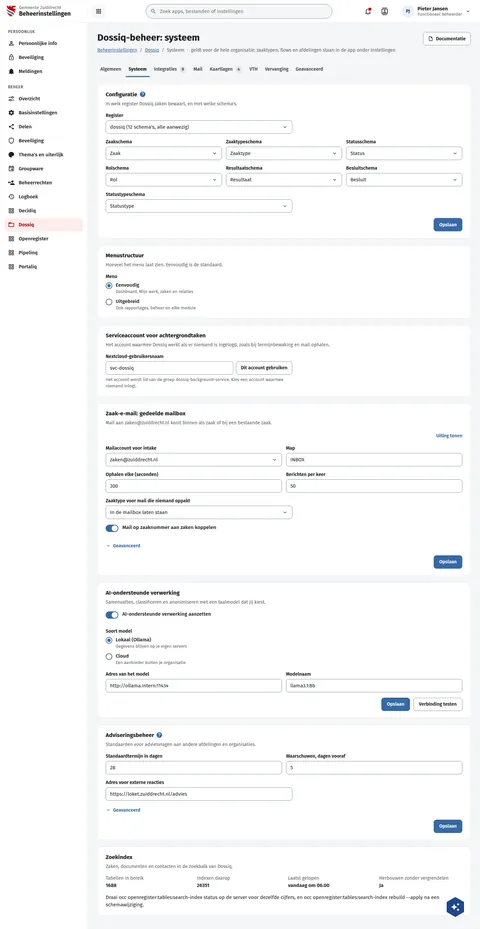
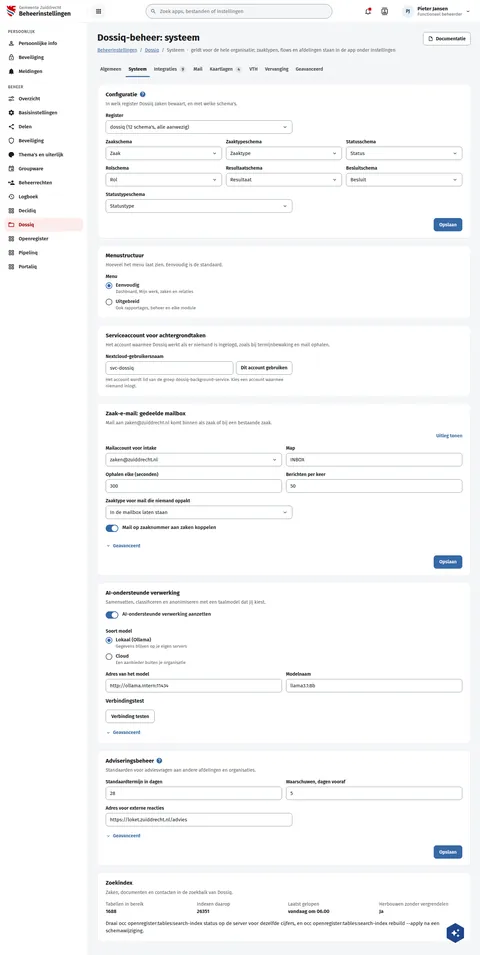
fix(screens): DqBeheerinstellingen AI card saves as you go, with its connection test as a row of its own, as live
NcBeheerInstellingen gains a heading row.

Assisted-by: ClaudeCode:claude-opus-5-5

diff --git a/preview/screens/boards/DqBeheerinstellingen.html b/preview/screens/boards/DqBeheerinstellingen.html
@@ -109,7 +109,9 @@ a{color:var(--sc-primary, #3669a5)}a:hover{color:var(--sc-primary-deep, #234a78)
                 
                 
                 
+                
               
+                
                 
                 
                 
@@ -130,6 +132,7 @@ a{color:var(--sc-primary, #3669a5)}a:hover{color:var(--sc-primary-deep, #234a78)
                 
                 
               
+                
                 
                 
                 
@@ -169,7 +172,9 @@ a{color:var(--sc-primary, #3669a5)}a:hover{color:var(--sc-primary-deep, #234a78)
                 
                 
                 
+                
               
+                
                 
                 
                 
@@ -205,6 +210,7 @@ a{color:var(--sc-primary, #3669a5)}a:hover{color:var(--sc-primary-deep, #234a78)
                 
                 
                 
+                
                   <fieldset style="margin: 0; padding: 0; border: 0; display: flex; flex-direction: column; gap: 10px"><legend style="padding: 0 0 8px; font-size: 14px; font-weight: 600">Menu</legend><label style="display: flex; gap: 10px; align-items: flex-start"><span aria-hidden="true" style="flex: none; display: inline-flex; align-items: center; justify-content: center; width: 20px; height: 20px; box-sizing: border-box; border-radius: 10px; margin-top: 1px; border: 2px solid var(--sc-primary, #3669a5)"><span style="width: 10px; height: 10px; border-radius: 5px; background: var(--sc-primary, #3669a5)"></span></span><input type="radio" name="nbi-r1" checked style="position: absolute; opacity: 0; width: 1px; height: 1px"><span style="display: flex; flex-direction: column; gap: 2px"><span style="font-size: 15px; font-weight: 500">Eenvoudig</span><span style="font-size: 13px; color: var(--sc-work-muted, #5e6168); line-height: 1.45">Dashboard, Mijn werk, zaken en relaties</span></span></label><label style="display: flex; gap: 10px; align-items: flex-start"><span aria-hidden="true" style="flex: none; display: inline-flex; align-items: center; justify-content: center; width: 20px; height: 20px; box-sizing: border-box; border-radius: 10px; margin-top: 1px; border: 2px solid var(--sc-work-muted, #5e6168)"></span><input type="radio" name="nbi-r1" style="position: absolute; opacity: 0; width: 1px; height: 1px"><span style="display: flex; flex-direction: column; gap: 2px"><span style="font-size: 15px; font-weight: 500">Uitgebreid</span><span style="font-size: 13px; color: var(--sc-work-muted, #5e6168); line-height: 1.45">Ook rapportages, beheer en elke module</span></span></label></fieldset>
                 
                 
@@ -226,6 +232,7 @@ a{color:var(--sc-primary, #3669a5)}a:hover{color:var(--sc-primary-deep, #234a78)
             <p style="margin: 0; font-size: 14px; color: var(--sc-work-muted, #5e6168); line-height: 1.5">Het account waarmee Dossiq werkt als er niemand is ingelogd, zoals bij termijnbewaking en mail ophalen.</p>
             <div style="display: flex; flex-direction: column; gap: 16px; margin-top: 10px">
               
+                
                 
                 
                 
@@ -268,12 +275,14 @@ a{color:var(--sc-primary, #3669a5)}a:hover{color:var(--sc-primary-deep, #234a78)
                 
                 
                 
+                
                   <div style="display: flex; justify-content: flex-end"><button type="button" aria-expanded="false" style="border: 0; background: transparent; padding: 4px 0; font: 600 14px var(--sc-font, 'Fira Sans'), sans-serif; color: var(--sc-primary, #3669a5)">Uitleg tonen</button></div>
                 
                 
                 
                 
               
+                
                 
                 
                 
@@ -294,6 +303,7 @@ a{color:var(--sc-primary, #3669a5)}a:hover{color:var(--sc-primary-deep, #234a78)
                 
                 
               
+                
                 
                 
                 
@@ -333,6 +343,7 @@ a{color:var(--sc-primary, #3669a5)}a:hover{color:var(--sc-primary-deep, #234a78)
                 
                 
                 
+                
               
                 
                   <label style="min-height: 36px; display: flex; gap: 12px; align-items: flex-start"><input type="checkbox" role="switch" checked style="position: absolute; opacity: 0; width: 1px; height: 1px"><span aria-hidden="true" style="flex: none; display: inline-flex; align-items: center; width: 38px; height: 22px; border-radius: 11px; margin-top: 1px; background: var(--sc-primary, #3669a5); justify-content: flex-end"><span style="width: 18px; height: 18px; border-radius: 9px; background: #ffffff; margin: 0 2px"></span></span><span style="display: flex; flex-direction: column; gap: 2px"><span style="font-size: 15px; font-weight: 500">Mail op zaaknummer aan zaken koppelen</span></span></label>
@@ -353,7 +364,9 @@ a{color:var(--sc-primary, #3669a5)}a:hover{color:var(--sc-primary-deep, #234a78)
                 
                 
                 
+                
               
+                
                 
                 
                 
@@ -374,6 +387,7 @@ a{color:var(--sc-primary, #3669a5)}a:hover{color:var(--sc-primary-deep, #234a78)
                 
                 
               
+                
                 
                 
                 
@@ -421,7 +435,9 @@ a{color:var(--sc-primary, #3669a5)}a:hover{color:var(--sc-primary-deep, #234a78)
                 
                 
                 
+                
               
+                
                 
                 
                 
@@ -448,6 +464,7 @@ a{color:var(--sc-primary, #3669a5)}a:hover{color:var(--sc-primary-deep, #234a78)
                 
                 
                 
+                
                   <div style="display: flex; flex-wrap: wrap; gap: 12px"><div style="flex: 1 1 180px; min-width: 0; display: flex; flex-direction: column; gap: 6px"><span style="font-size: 14px; font-weight: 600">Adres van het model</span><div style="display: flex; align-items: center; justify-content: space-between; height: 40px; box-sizing: border-box; padding: 0 12px; border: 1px solid var(--sc-work-field, #828a95); border-radius: 8px; background: #ffffff; font-size: 15px"><span style="overflow: hidden; text-overflow: ellipsis; white-space: nowrap">http://ollama.intern:11434</span></div></div><div style="flex: 1 1 180px; min-width: 0; display: flex; flex-direction: column; gap: 6px"><span style="font-size: 14px; font-weight: 600">Modelnaam</span><div style="display: flex; align-items: center; justify-content: space-between; height: 40px; box-sizing: border-box; padding: 0 12px; border: 1px solid var(--sc-work-field, #828a95); border-radius: 8px; background: #ffffff; font-size: 15px"><span style="overflow: hidden; text-overflow: ellipsis; white-space: nowrap">llama3.1:8b</span></div></div></div>
                 
                 
@@ -466,6 +483,7 @@ a{color:var(--sc-primary, #3669a5)}a:hover{color:var(--sc-primary-deep, #234a78)
                 
                 
                 
+                  <h3 style="margin: 0; font-size: 16px; font-weight: 600; line-height: 1.3">Verbindingstest</h3>
                 
                 
                 
@@ -479,7 +497,49 @@ a{color:var(--sc-primary, #3669a5)}a:hover{color:var(--sc-primary-deep, #234a78)
                 
                 
                 
-                  <div style="display: flex; flex-wrap: wrap; gap: 10px; justify-content: flex-end"><button type="button" style="display: inline-flex; align-items: center; height: 40px; box-sizing: border-box; padding: 0 16px; border-radius: 8px; font: 600 14px var(--sc-font, 'Fira Sans'), sans-serif; white-space: nowrap; border: 1px solid var(--sc-primary, #3669a5); background: var(--sc-primary, #3669a5); color: #ffffff">Opslaan</button><button type="button" style="display: inline-flex; align-items: center; height: 40px; box-sizing: border-box; padding: 0 16px; border-radius: 8px; font: 600 14px var(--sc-font, 'Fira Sans'), sans-serif; white-space: nowrap; border: 1px solid var(--sc-work-field, #828a95); background: #ffffff; color: var(--sc-work-ink, #1b1c1d)">Verbinding testen</button></div>
+                
+                
+              
+                
+                
+                
+                
+                
+                
+                
+                
+                
+                
+                
+                
+                
+                
+                
+                
+                
+                
+                  <div style="display: flex; flex-wrap: wrap; gap: 10px; "><button type="button" style="display: inline-flex; align-items: center; height: 40px; box-sizing: border-box; padding: 0 16px; border-radius: 8px; font: 600 14px var(--sc-font, 'Fira Sans'), sans-serif; white-space: nowrap; border: 1px solid var(--sc-work-field, #828a95); background: #ffffff; color: var(--sc-work-ink, #1b1c1d)">Verbinding testen</button></div>
+                
+              
+                
+                
+                
+                
+                
+                
+                
+                
+                
+                
+                
+                
+                
+                
+                
+                
+                  <button type="button" aria-expanded="false" style="align-self: flex-start; display: inline-flex; align-items: center; gap: 6px; border: 0; background: transparent; padding: 4px 0; font: 600 14px var(--sc-font, 'Fira Sans'), sans-serif; color: var(--sc-primary, #3669a5)"><svg width="16" height="16" viewbox="0 0 24 24" fill="#3669a5" aria-hidden="true" style="fill:var(--sc-primary, #3669a5)"><path d="M7.41,8.58L12,13.17L16.59,8.58L18,10L12,16L6,10L7.41,8.58Z"></path></svg>Geavanceerd</button>
+                
+                
                 
               
             </div>
@@ -490,6 +550,7 @@ a{color:var(--sc-primary, #3669a5)}a:hover{color:var(--sc-primary-deep, #234a78)
             <p style="margin: 0; font-size: 14px; color: var(--sc-work-muted, #5e6168); line-height: 1.5">Standaarden voor adviesvragen aan andere afdelingen en organisaties.</p>
             <div style="display: flex; flex-direction: column; gap: 16px; margin-top: 10px">
               
+                
                 
                 
                 
@@ -510,6 +571,7 @@ a{color:var(--sc-primary, #3669a5)}a:hover{color:var(--sc-primary-deep, #234a78)
                 
                 
               
+                
                 
                 
                 
@@ -545,11 +607,13 @@ a{color:var(--sc-primary, #3669a5)}a:hover{color:var(--sc-primary-deep, #234a78)
                 
                 
                 
+                
                   <button type="button" aria-expanded="false" style="align-self: flex-start; display: inline-flex; align-items: center; gap: 6px; border: 0; background: transparent; padding: 4px 0; font: 600 14px var(--sc-font, 'Fira Sans'), sans-serif; color: var(--sc-primary, #3669a5)"><svg width="16" height="16" viewbox="0 0 24 24" fill="#3669a5" aria-hidden="true" style="fill:var(--sc-primary, #3669a5)"><path d="M7.41,8.58L12,13.17L16.59,8.58L18,10L12,16L6,10L7.41,8.58Z"></path></svg>Geavanceerd</button>
                 
                 
                 
               
+                
                 
                 
                 
@@ -590,6 +654,7 @@ a{color:var(--sc-primary, #3669a5)}a:hover{color:var(--sc-primary-deep, #234a78)
                 
                 
                 
+                
                   <dl style="margin: 0; display: grid; grid-template-columns: repeat(4, minmax(0, 1fr)); gap: 6px 24px; font-size: 14px"><div style="display: flex; flex-direction: column; gap: 4px"><dt style="color: var(--sc-work-muted, #5e6168)">Tabellen in bereik</dt><dd style="margin: 0; font-size: 15px; font-weight: 600">1688</dd></div><div style="display: flex; flex-direction: column; gap: 4px"><dt style="color: var(--sc-work-muted, #5e6168)">Indexen daarop</dt><dd style="margin: 0; font-size: 15px; font-weight: 600">26351</dd></div><div style="display: flex; flex-direction: column; gap: 4px"><dt style="color: var(--sc-work-muted, #5e6168)">Laatst gelopen</dt><dd style="margin: 0; font-size: 15px; font-weight: 600">vandaag om 06.00</dd></div><div style="display: flex; flex-direction: column; gap: 4px"><dt style="color: var(--sc-work-muted, #5e6168)">Herbouwen zonder vergrendelen</dt><dd style="margin: 0; font-size: 15px; font-weight: 600">Ja</dd></div></dl>
                 
                 
@@ -598,6 +663,7 @@ a{color:var(--sc-primary, #3669a5)}a:hover{color:var(--sc-primary-deep, #234a78)
                 
                 
               
+                
                 
                 
                 

diff --git a/screens-src/zuiddrecht/NcBeheerInstellingen.dc.html b/screens-src/zuiddrecht/NcBeheerInstellingen.dc.html
@@ -36,6 +36,9 @@ a{color:#3669a5}a:hover{color:#234a78}
                 <sc-if value="{{ r.isSelect }}">
                   <div style="display: flex; flex-direction: column; gap: 6px; max-width: 560px"><span style="font-size: 14px; font-weight: 600">{{ r.label }}</span><div role="combobox" aria-expanded="false" aria-label="{{ r.label }}" style="display: flex; align-items: center; justify-content: space-between; gap: 8px; height: 40px; box-sizing: border-box; padding: 0 12px; border: 1px solid #828a95; border-radius: 8px; background: #ffffff; font-size: 15px"><span style="overflow: hidden; text-overflow: ellipsis; white-space: nowrap">{{ r.value }}</span><svg width="18" height="18" viewBox="0 0 24 24" fill="#3d4047" aria-hidden="true" style="flex: none"><path d="M7.41,8.58L12,13.17L16.59,8.58L18,10L12,16L6,10L7.41,8.58Z"></path></svg></div><sc-if value="{{ r.hasHint }}"><span style="font-size: 13px; color: #5e6168; line-height: 1.45">{{ r.hint }}</span></sc-if></div>
                 </sc-if>
+                <sc-if value="{{ r.isHeading }}">
+                  <h3 style="margin: 0; font-size: 16px; font-weight: 600; line-height: 1.3">{{ r.text }}</h3>
+                </sc-if>
                 <sc-if value="{{ r.isArea }}">
                   <div style="display: flex; flex-direction: column; gap: 6px"><span style="font-size: 14px; font-weight: 600">{{ r.label }}</span><textarea aria-label="{{ r.label }}" rows="{{ r.rows }}" style="box-sizing: border-box; width: 100%; padding: 8px 12px; border: 1px solid #828a95; border-radius: 8px; background: #ffffff; font: 400 15px 'Fira Sans', sans-serif; line-height: 1.1; color: #1b1c1d; resize: vertical">{{ r.value }}</textarea><sc-if value="{{ r.hasHint }}"><span style="font-size: 13px; color: #5e6168; line-height: 1.45">{{ r.hint }}</span></sc-if></div>
                 </sc-if>
@@ -129,13 +132,15 @@ class Component extends DCLogic {
       (kind === 'primary' ? 'border: 1px solid #3669a5; background: #3669a5; color: #ffffff' : kind === 'danger' ? 'border: 1px solid #cc0000; background: #ffffff; color: #a30000' : 'border: 1px solid #828a95; background: #ffffff; color: #1b1c1d');
     const note = (tone) => 'margin: 0; padding: 10px 12px; border-radius: 8px; font-size: 14px; line-height: 1.5; ' +
       (tone === 'warn' ? 'background: #fff4e5; color: #1b1c1d' : tone === 'plain' ? 'padding: 0; color: #5e6168' : 'background: #eaf0f7; color: #1b1c1d');
-    const blank = { isSwitch: false, isCheck: false, isSelect: false, isText: false, isArea: false, isPair: false, isRadios: false, isItems: false, isMatrix: false, isFacts: false, isFigures: false, isTable: false, isPara: false, isLink: false, isDisclosure: false, isNote: false, isButtons: false };
+    const blank = { isSwitch: false, isCheck: false, isSelect: false, isText: false, isArea: false, isHeading: false, isPair: false, isRadios: false, isItems: false, isMatrix: false, isFacts: false, isFigures: false, isTable: false, isPara: false, isLink: false, isDisclosure: false, isNote: false, isButtons: false };
     let n = 0;
     const row = (r) => {
       const hint = r.hint || '';
       if ('switch' in r) return { ...blank, isSwitch: true, label: r.switch, hint, hasHint: !!hint, on: !!r.on, track: track(!!r.on) };
       if ('check' in r) return { ...blank, isCheck: true, label: r.check, hint, hasHint: !!hint, on: !!r.on, box: box(!!r.on) };
       if ('select' in r) return { ...blank, isSelect: true, label: r.select, value: r.value || '', hint, hasHint: !!hint };
+      // heading: a sub-heading inside the card.
+      if ('heading' in r) return { ...blank, isHeading: true, text: r.heading };
       // area: a multi-line text field, full width.
       if ('area' in r) return { ...blank, isArea: true, label: r.area, value: r.value || '', rows: r.rows || 5, hint, hasHint: !!hint };
       if ('text' in r) return { ...blank, isText: true, label: r.text, value: r.value || '', placeholder: r.placeholder || '', hint, hasHint: !!hint, action: r.action || '', hasAction: !!r.action };

diff --git a/screens-src/zuiddrecht/DqBeheerinstellingen.dc.html b/screens-src/zuiddrecht/DqBeheerinstellingen.dc.html
@@ -53,7 +53,9 @@ class Component extends DCLogic {
         { switch: 'AI-ondersteunde verwerking aanzetten', on: true },
         { radios: 'Soort model', options: [['Lokaal (Ollama)', 'Gegevens blijven op je eigen servers', true], ['Cloud', 'Een aanbieder buiten je organisatie']] },
         { pair: [{ label: 'Adres van het model', value: 'http://ollama.intern:11434' }, { label: 'Modelnaam', value: 'llama3.1:8b' }] },
-        { buttons: [['Opslaan', 'primary'], ['Verbinding testen', '']] }
+        { heading: 'Verbindingstest' },
+        { buttons: [['Verbinding testen', '']] },
+        { disclosure: 'Geavanceerd' }
       ] },
       { name: 'Adviseringsbeheer', help: true, desc: 'Standaarden voor adviesvragen aan andere afdelingen en organisaties.', rows: [
         { pair: [{ label: 'Standaardtermijn in dagen', value: '28' }, { label: 'Waarschuwen, dagen vooraf', value: '5' }] },
